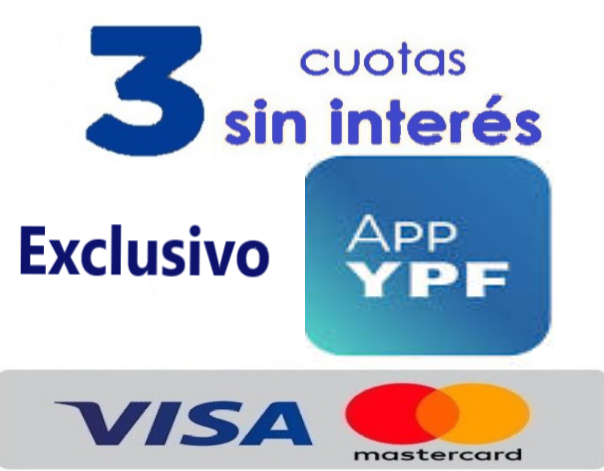
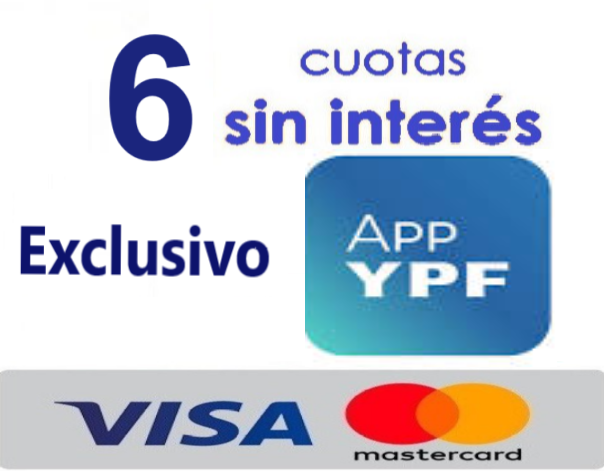
20082024

Changed region(s): [[0.1192, 0.0297, 0.3576, 0.3567]]

diff --git a/js/index.js b/js/index.js
@@ -726,16 +726,16 @@ function sumarPrecios1() {
       "$" +
       precioTotal2.toFixed(0) +
       "<br>" +
-      ' <small><span style="font-weight: normal;"><b>3</b> cuotas sin interés de</span> $' +
-      (precioTotal2 / 3).toFixed(0) +
+      ' <small><span style="font-weight: normal;"><b>6</b> cuotas sin interés de</span> $' +
+      (precioTotal2 / 6).toFixed(0) +
       "</small>";
   } else {
     cuotasHTML1 =
       "$" +
       precioTotal2.toFixed(0) +
       "<br>" +
-      ' <small><span style="font-weight: normal;"><b>3</b> cuotas de</span> $' +
-      ((precioTotal2 * (1 + feeInterest / 100)) / 3).toFixed(0) +
+      ' <small><span style="font-weight: normal;"><b>6</b> cuotas de</span> $' +
+      ((precioTotal2 * (1 + feeInterest / 100)) / 6).toFixed(0) +
       "</small>";
   }
   
@@ -795,16 +795,16 @@ function sumarPrecios2() {
       "$" +
       precioTotal.toFixed(0) +
       "<br>" +
-      ' <small><span style="font-weight: normal;"><b>3</b> cuotas sin interés de</span> $' +
-      (precioTotal / 3).toFixed(0) +
+      ' <small><span style="font-weight: normal;"><b>6</b> cuotas sin interés de</span> $' +
+      (precioTotal / 6).toFixed(0) +
       "</small>";
   } else {
     cuotasHTML =
       "$" +
       precioTotal.toFixed(0) +
       "<br>" +
-      ' <small><span style="font-weight: normal;"><b>3</b> cuotas de</span> $' +
-      ((precioTotal * (1 + feeInterest / 100)) / 3).toFixed(0) +
+      ' <small><span style="font-weight: normal;"><b>6</b> cuotas de</span> $' +
+      ((precioTotal * (1 + feeInterest / 100)) / 6).toFixed(0) +
       "</small>";
   }
   
